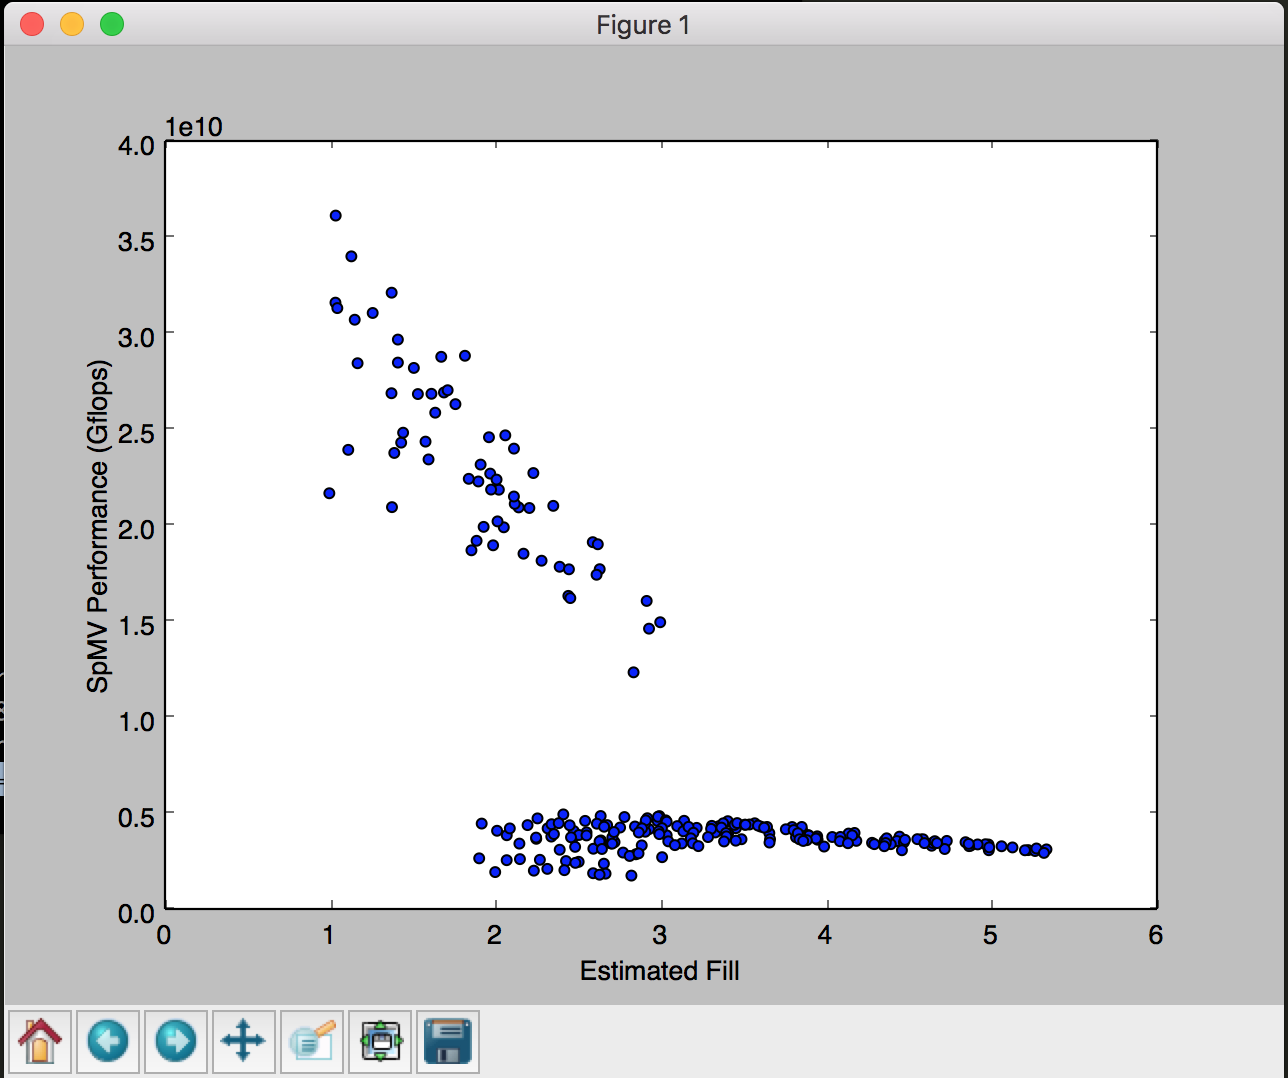
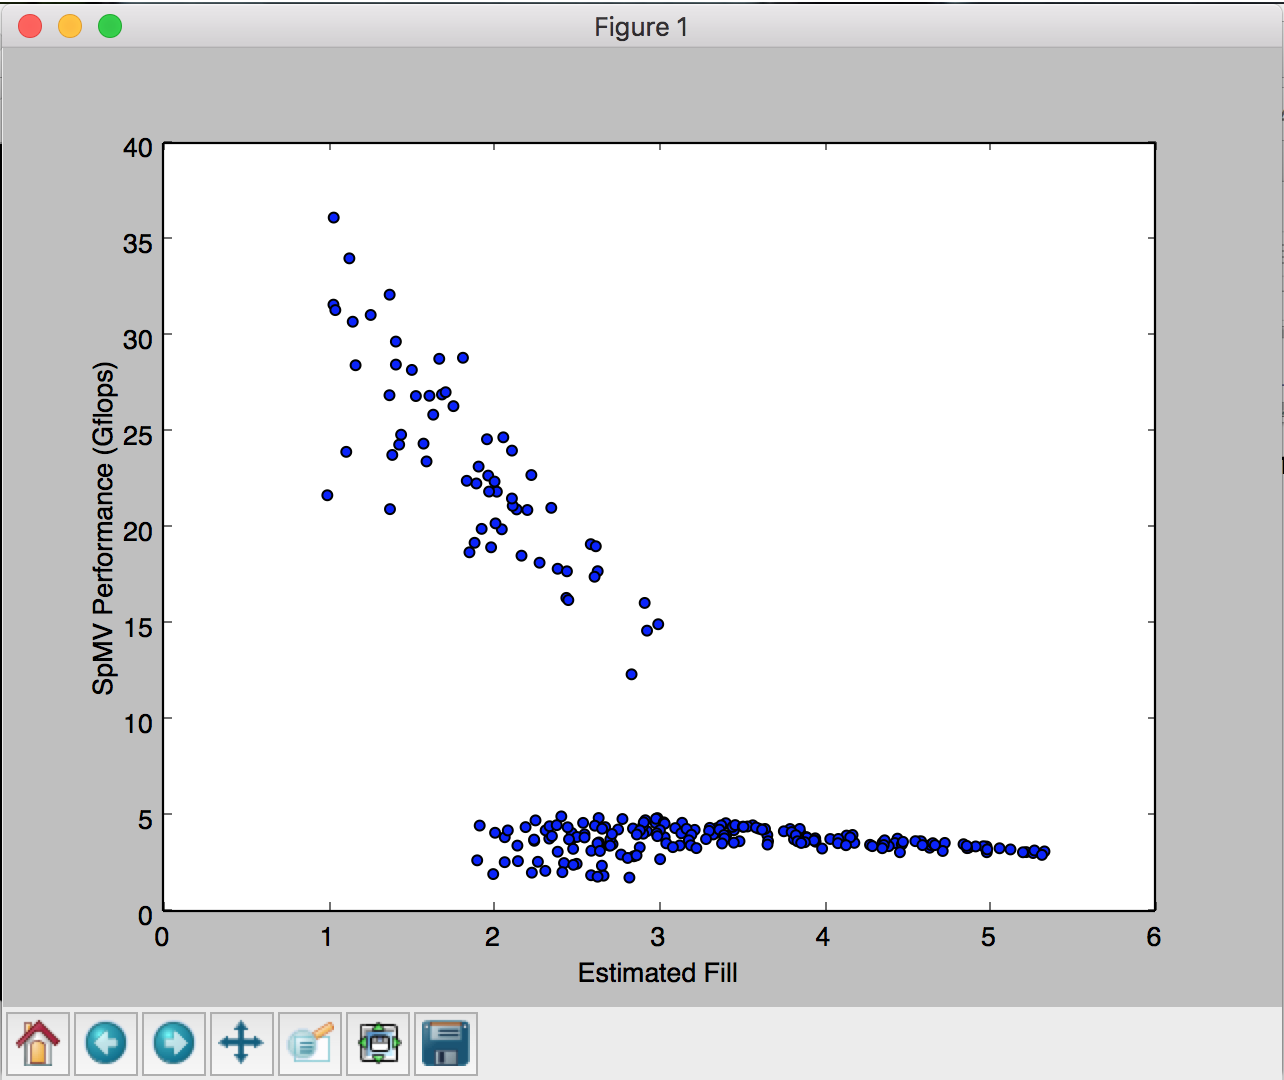
Flops->Gflops

diff --git a/visualization/plot.py b/visualization/plot.py
@@ -38,6 +38,7 @@ if __name__ == "__main__":
 
 	for i in range(len(perf1d)):
 		perf1d[i] = (2 * nnz * 1000.)/float(perf1d[i])
+		perf1d[i] = perf1d[i] / 1000000000
 
 	plt.scatter(result1d, perf1d)
 	plt.xlabel('Estimated Fill')
